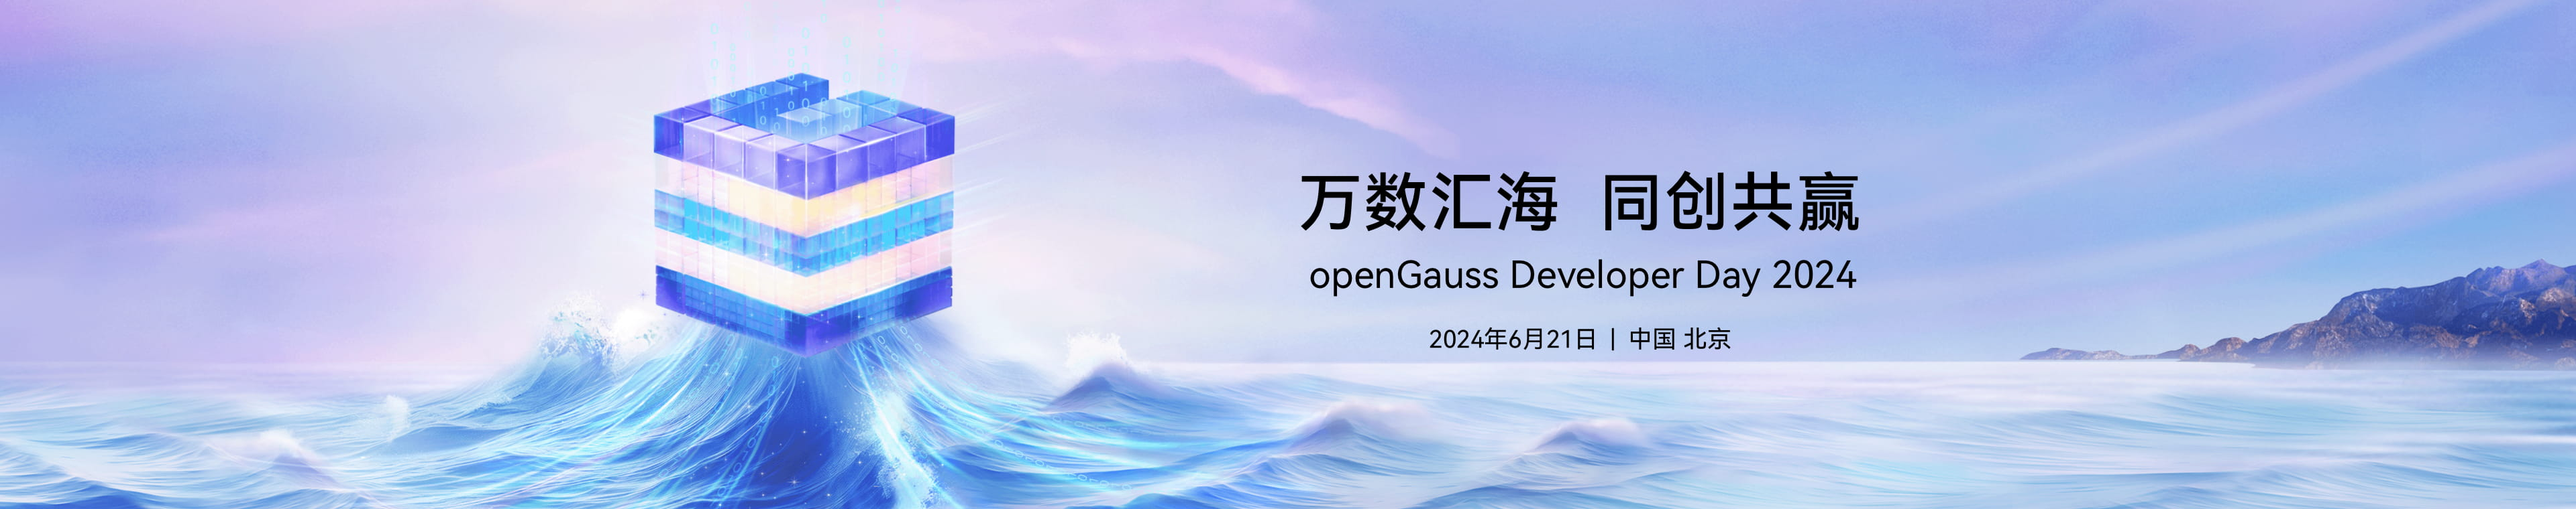
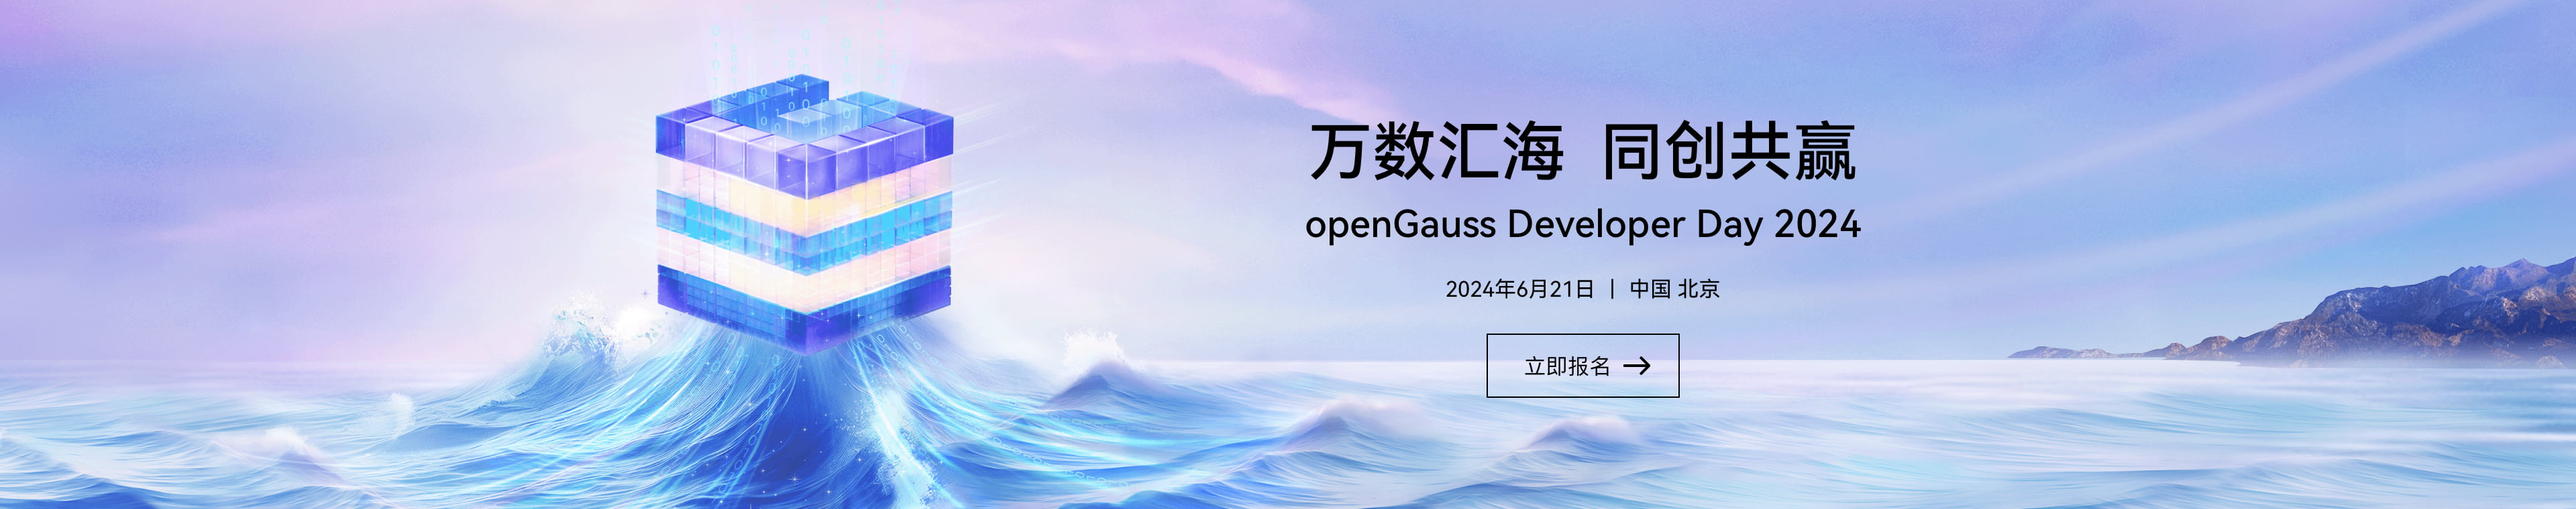
fix: devday2024主页图增加报名入口

diff --git a/app/.vitepress/src/views/summit/devday2024/components/SummitBanner.vue b/app/.vitepress/src/views/summit/devday2024/components/SummitBanner.vue
@@ -8,16 +8,18 @@ defineProps({
 });
 </script>
 <template>
-  <div class="banner">
-    <div
-      class="summit-banner-pc summit-banner"
-      :style="{ backgroundImage: `url(${bannerData.bg})` }"
-    ></div>
-    <div
-      class="summit-banner-mo summit-banner"
-      :style="{ backgroundImage: `url(${bannerData.bgMo})` }"
-    ></div>
-  </div>
+  <a :href="bannerData.signUpHref" target="_blank" rel="noopener noreferrer">
+    <div class="banner">
+      <div
+        class="summit-banner-pc summit-banner"
+        :style="{ backgroundImage: `url(${bannerData.bg})` }"
+      ></div>
+      <div
+        class="summit-banner-mo summit-banner"
+        :style="{ backgroundImage: `url(${bannerData.bgMo})` }"
+      ></div>
+    </div>
+  </a>
 </template>
 <style scoped lang="scss">
 @include in-dark {
